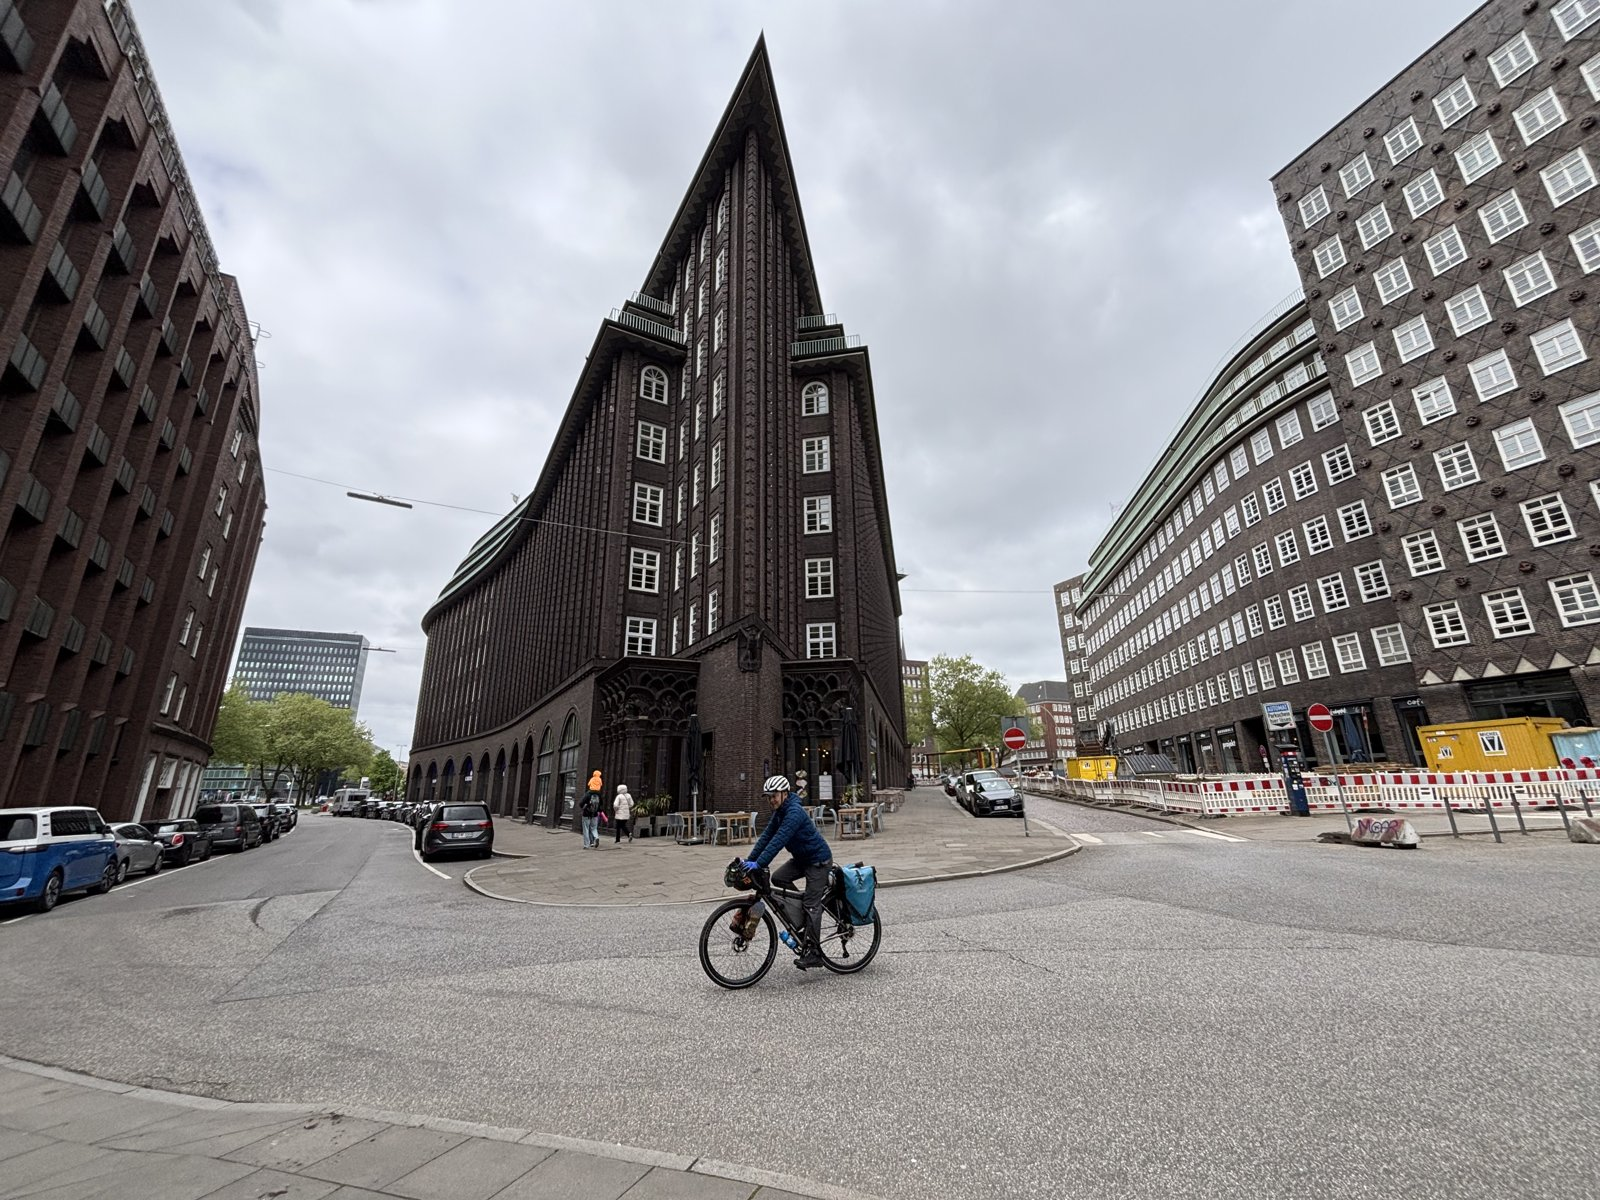
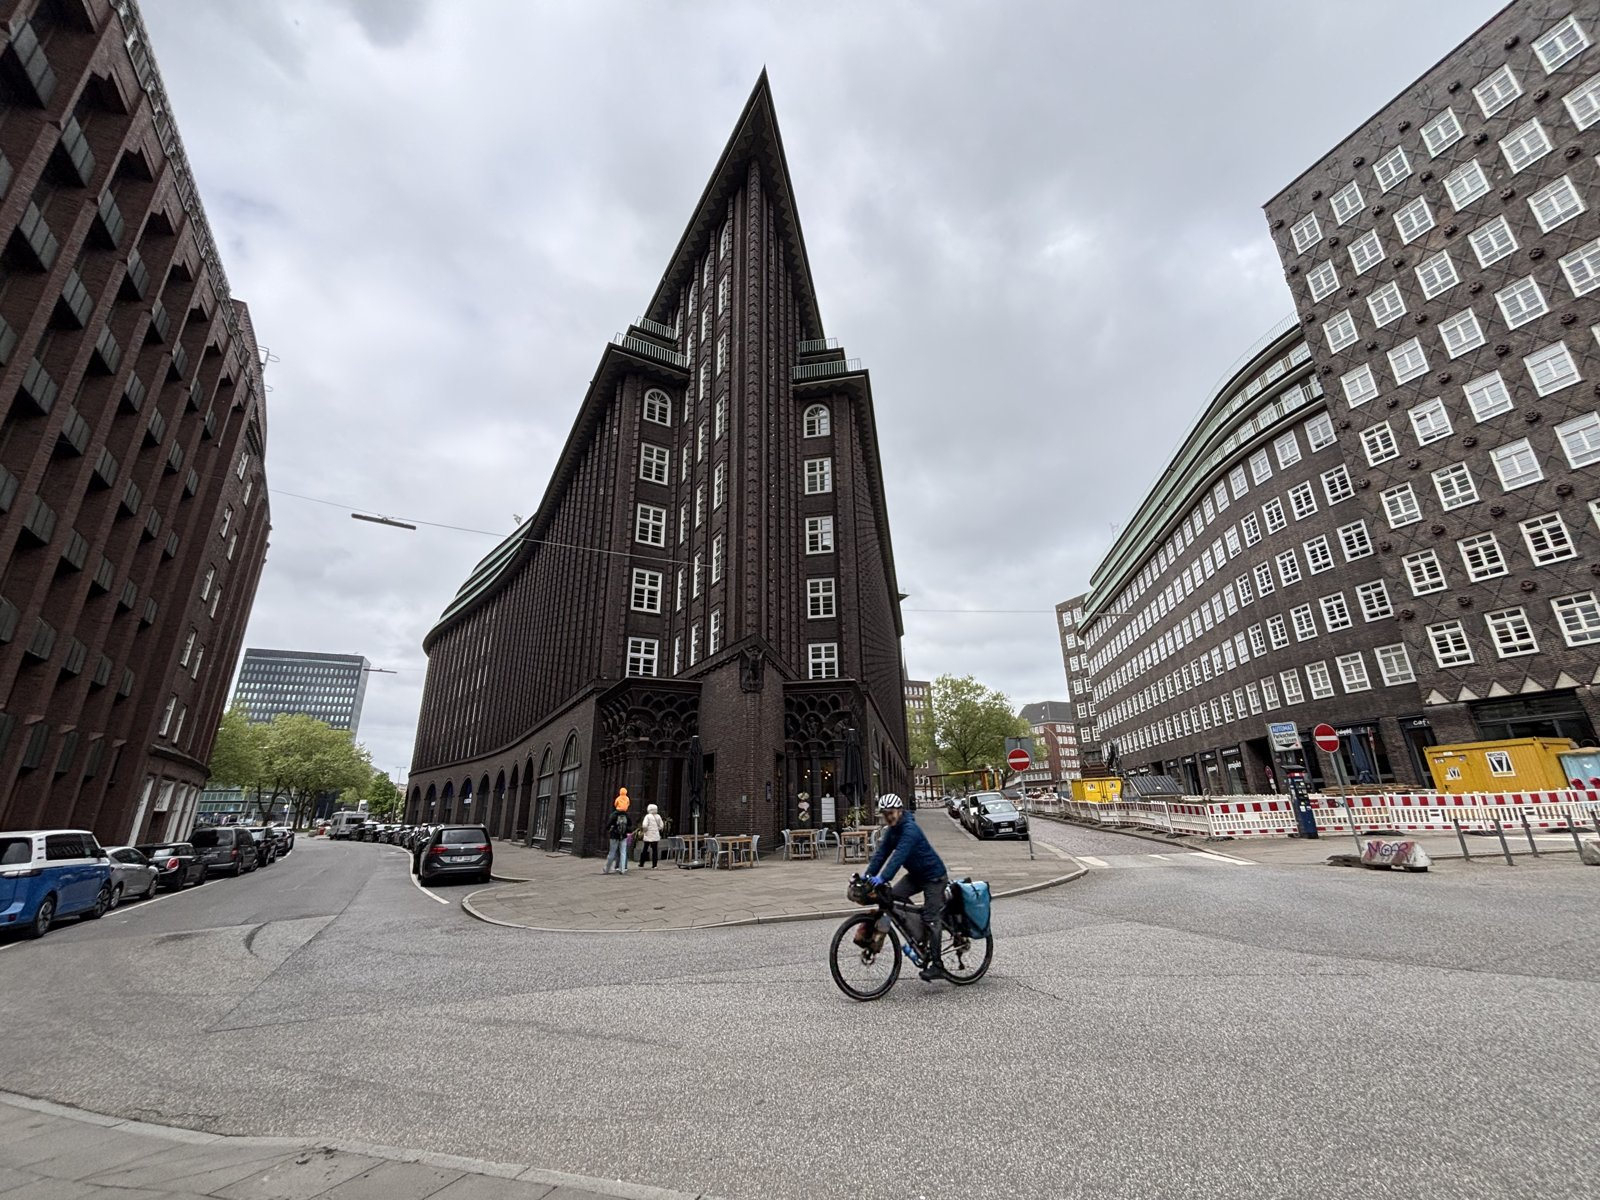
europe 02: Chilehaus → IMG_8055

diff --git a/content/journeys/2025-eu-02-north-germany/index.md b/content/journeys/2025-eu-02-north-germany/index.md
@@ -64,7 +64,7 @@ heroStyle: "background"
 
 天陰。十一點多在 Chilehaus——深褐色的磚牆,尖尖的一角像船頭一樣切進街口。這棟樓 1924 年落成,是表現主義磚造建築的代表作;出錢蓋它的商人靠智利的硝石貿易發財,所以叫「智利之家」。現在它和倉庫城一起列在世界遺產裡。
 
-![Chilehaus,尖角像船頭。](p-chilehaus.jpg "Chilehaus,尖角像船頭。")
+![騎過 Chilehaus 前,尖角像船頭。](p-chilehaus.jpg "騎過 Chilehaus 前,尖角像船頭。")
 
 再往前是倉庫城(Speicherstadt)。紅磚倉庫一棟接一棟,綠色的銅屋頂,前面一座黑色的鐵橋跨過運河。這是世界上最大的倉庫區,十九世紀末建在橡木樁上;當年整區是免稅港,咖啡、香料、地毯就堆在這些磚樓裡。
 
